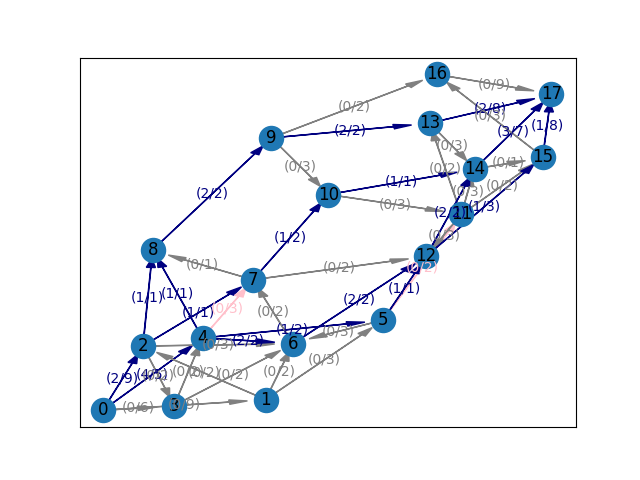
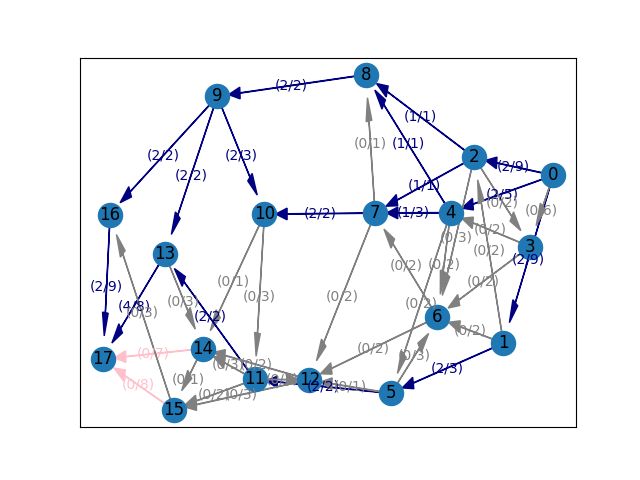
Au propre!

Changed region(s): [[0.125, 0.125, 0.9062, 0.9062]]

diff --git a/flux_graph.py b/flux_graph.py
@@ -22,7 +22,7 @@ class Edge:
         self.is_blocked = False
         
     def __lt__(self, other):
-        return self.remaining_capacity < other.remaining_capacity
+        return self.remaining_capacity > other.remaining_capacity
         
     def __str__(self):
         return "(" + self.node_from.name + " à " + self.node_to.name + ")"  
@@ -39,7 +39,7 @@ class Edge:
         else:
             return self._max_capacity - self.remaining_capacity
     
-    def get_capacity(self):
+    def get_remaining_capacity(self):
         return self.remaining_capacity
     
     def get_max_capacity(self):
@@ -82,10 +82,7 @@ class Node:
         heapq.heappush(self.ingoing_edges_heap, edge)
         
     def get_highest_capacity_outgoing_edge(self):
-        return self.outgoing_edges_heap[0]
-    
-    def pop_highest_capacity_ingoing_edge(self):
-        return heapq.heappop(self.ingoing_edges_heap)
+        return self.outgoing_edges_heap[-1]
     
     def is_source(self):
         return len(self.outgoing_edges_heap) > 0 and len(self.ingoing_edges_heap) == 0
@@ -153,7 +150,7 @@ class FlowNetwork:
             
             # Find the bottleneck capacity of the augmenting path
             # Since we're using heaps to store the edges, we can just look at the first edge; it's the one with the least capacity
-            bottleneck_capacity = min(edge.get_capacity() for edge in augmenting_path)
+            bottleneck_capacity = min(edge.get_remaining_capacity() for edge in augmenting_path)
             
             # Update the flow and residual graph
             for edge in augmenting_path:
@@ -205,13 +202,26 @@ class FlowNetwork:
             return (0, self.sink_node.ingoing_edges_heap)
         
         # Initialisation d'une matrice des combinaisons possibles d'arcs à retirer (max profondeur de k = num_edges_to_remove)
-        edges_with_flow = [edge for edge in self.edges if edge.has_flow()]
+        edges_with_flow_heap = []
+        for edge in self.edges:
+            if(self.num_edges_to_remove > 1 or edge.has_flow()): heapq.heappush(edges_with_flow_heap, edge)
+
+        # Améliorations: Ne regarder que les arêtes intéressantes, et en ordre d'intérêt
+        #
+        #   - Si on ne veut enlever qu'un arc, plutôt qu'évaluer tous les arcs, on ne regarde que ceux qui ont initialement du flow.
+        #     Lorsque c'est le cas, le nombre de configurations du graphe à vérifier sont diminuées d'un ordre de grandeur, et sinon,
+        #     ça ne coûte que m opérations booléeanes supplémentaires, coût négligable.
+        #
+        #   - On regarde les arcs en ordre descendant de leur flow initial, ce qui a comme but de de trouver la solution optimale
+        #     plus vite. Nous permettrait des heuristiques et solutions approximatives rapides si la taille de m est trop grande.
+        #     Concrètement par contre, sans heuristique, le temps d'éxecution reste idem car on va vérifier chaque configuration
+        #     importante avec le retour-arrière.
         
         # Pour chaque 'noeud' ou configuration suivant dans l'arbre de recherche, c.a.d. pour chaque combinaison 
         # d'arêtes qui pourraientt être bloquées ensemble, on compare sa valeur (i.e. son flow max).
 
         # Parcourir toutes les k-combinaisions d'arcs, sans réevaluer les doublons:
-        leaves = combinations(edges_with_flow, self.num_edges_to_remove)
+        leaves = combinations(edges_with_flow_heap, self.num_edges_to_remove)
             
         # Amélioration: Parcours de l'arbre de recherche en commençant par les feuilles
         #
@@ -221,18 +231,21 @@ class FlowNetwork:
         #           -> D'ailleurs, c'est de là que vient le nom de l'algorithme; si une solution non-optimale
         #              ou un maximum local est trouvée, l'algorithme remonte l'arbre vérifier d'autres noeuds.
         #
-        #   - Or, dans ce cas-ci, nous parcourons les solutions de l'arbre en ordre de profondeur, commençant par
-        #     le bas et montant vers la racine.
+        #   - Or, dans ce cas-ci, nous ne parcourons que les solutions de l'arbre ayant k arcs retirés.
         #           -> Le but est que, pour notre mise en situation, nous avons *toujours* avantage à blocker plus
         #              d'arcs plutôt que moins, donc la solution sera trouvée plus tôt. Ça l'aurait été une autre
         #              histoire s'il y avait un coût associé à bloquer un arc.
         #           -> Vu que nous ne cherchons pas le minimum d'arcs à retirer, mais plutôt le flow minimal après
-        #              retirer k arcs, alors nous n'avons pas besoin d'évaluer les profondeurs < k.
-        #           -> De plus, ça permet d'éviter de garder une arborescence en mémoire et éviter les appels récursifs,
-        #              ce qui améliore la performance temporelle et de mémoire. 
+        #              retirer k arcs, alors nous n'avons aucune raison d'évaluer les profondeurs < k.
+        #           -> De plus, cette amélioration permet d'éviter de garder une arborescence en mémoire et éviter les 
+        #              appels récursifs, ce qui améliore la performance temporelle et de mémoire;
+        #                   - Aucune copie ni reconstruction de graphe n'est faite, et le stockage en mémoire de minimums 
+        #                     locaux de l'arbre de recherche n'est plus nécessaire avec cette approche. 
         #
         #   - On peut se le permettre car une instance de FlowNetwork peut aisément blocker plusieurs de ses arcs
-        #     avant même de recalculer le flow maximal par Ford-Fulkerson. Donc, c'est un gain significatif.
+        #     avant même de recalculer le flow maximal par Ford-Fulkerson. 
+        #           -> Plus k est grand, moins il y aura de combinaisons à évaluer.
+        #              Ça va venir diminuer la complexité de notre algorithme.
             
         # Parcourir toutes les combinaisons de k arcs à retirer, et faire le parcours:
         for edge_combination in leaves:
@@ -299,7 +312,7 @@ abspath = os.path.abspath(__file__)
 dname = os.path.dirname(abspath)
 os.chdir(dname)
 
-file_name = "ex2.csv"
+file_name = "ex3.csv"
 G = FlowNetwork(file_name)
 print("Max initial flow is: " + str(G.flow))
 
@@ -313,7 +326,7 @@ G.recalculate_flow()
 if(len(min_edges) == 0):
     print("Réponse trouvée était de suprimer aucun arc. Erreur?")
 elif(len(min_edges) == 1):
-    print("Réponse est un flow de flow de " + str(min_flow) + " en enlevant l'arc allant de " + min_edges[0].node_from.name + " à " + min_edges[0].node_to.name)
+    print("Réponse est un flow de flow de " + str(min_flow) + " en enlevant l'arc " + str(min_edges[0]))
 else:
     print("Réponse est un flow de " + str(min_flow) + " en enlevant les arcs suivants: " + (", ").join([str(edge) for edge in min_edges]))
     
